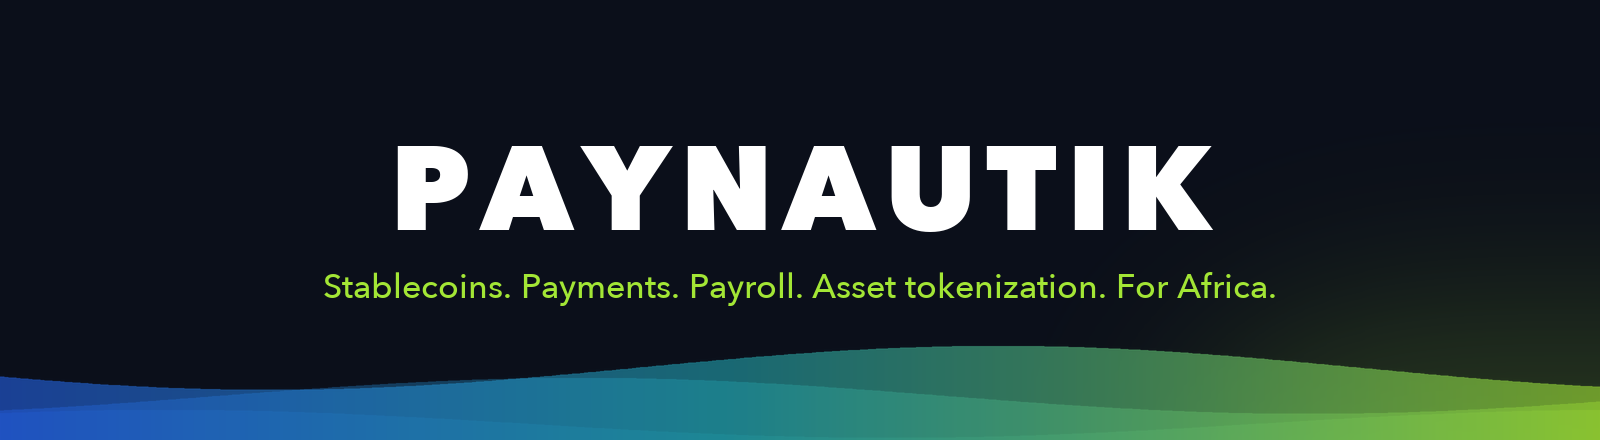
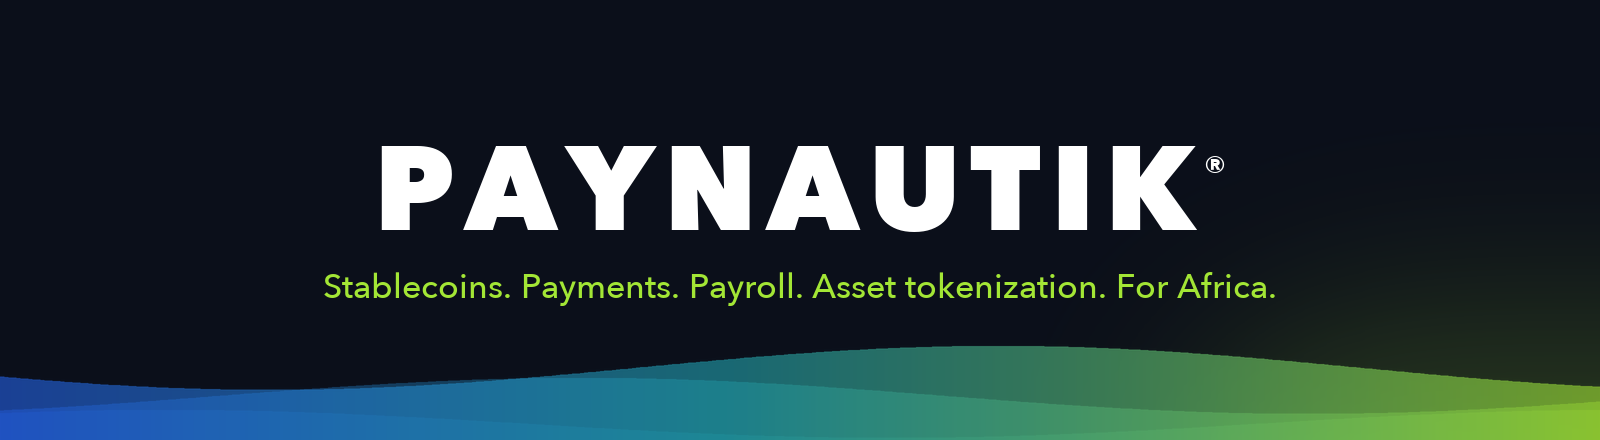
Add the registered mark to the Paynautik name
Banner: a small raised ® after PAYNAUTIK, placed like the site's wordmark.
Footer note: Paynautik®.

Changed region(s): [[0.2188, 0.325, 0.7812, 0.5318]]

diff --git a/profile/README.md b/profile/README.md
@@ -52,4 +52,4 @@
 - **Join the team:** see [open roles](https://paynautik.com/careers).
 - **Talk to us:** [support@paynautik.com](mailto:support@paynautik.com)
 
-<p align="center"><sub>Paynautik is a financial technology company, not a bank. Product names and figures on this page are descriptive and not an offer of financial services.</sub></p>
+<p align="center"><sub>Paynautik® is a financial technology company, not a bank. Product names and figures on this page are descriptive and not an offer of financial services.</sub></p>
